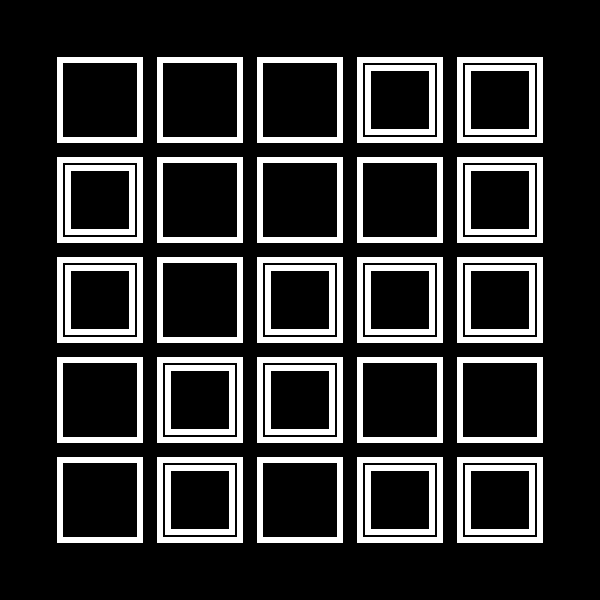
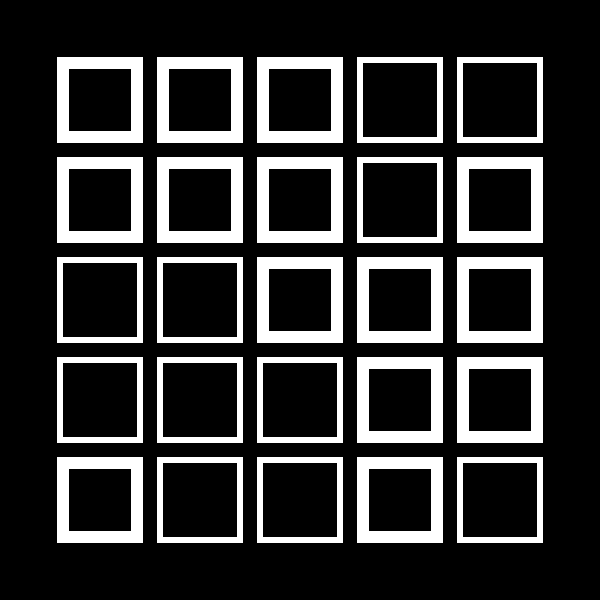
Update double line padding in sketch-01.js and modify image in .github directory

diff --git a/sketch-01.js b/sketch-01.js
@@ -17,7 +17,7 @@ const sketch = () => {
     const rows = 5;
     const cols = 5;
     const change_for_double_line = 0.5;
-    const double_line_padding = 10;
+    const double_line_padding = 6;
     let x, y;
 
     const start_padding = (width - (w * cols + gap * (cols - 1))) * 0.5;
